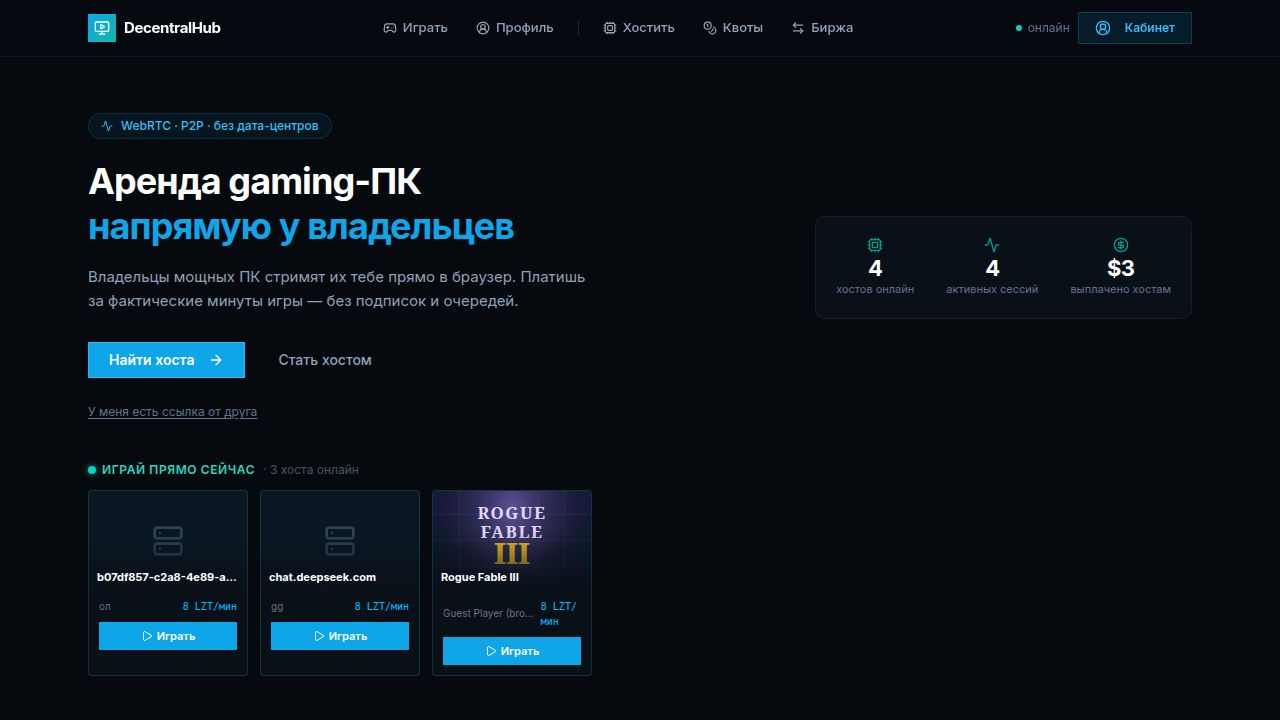
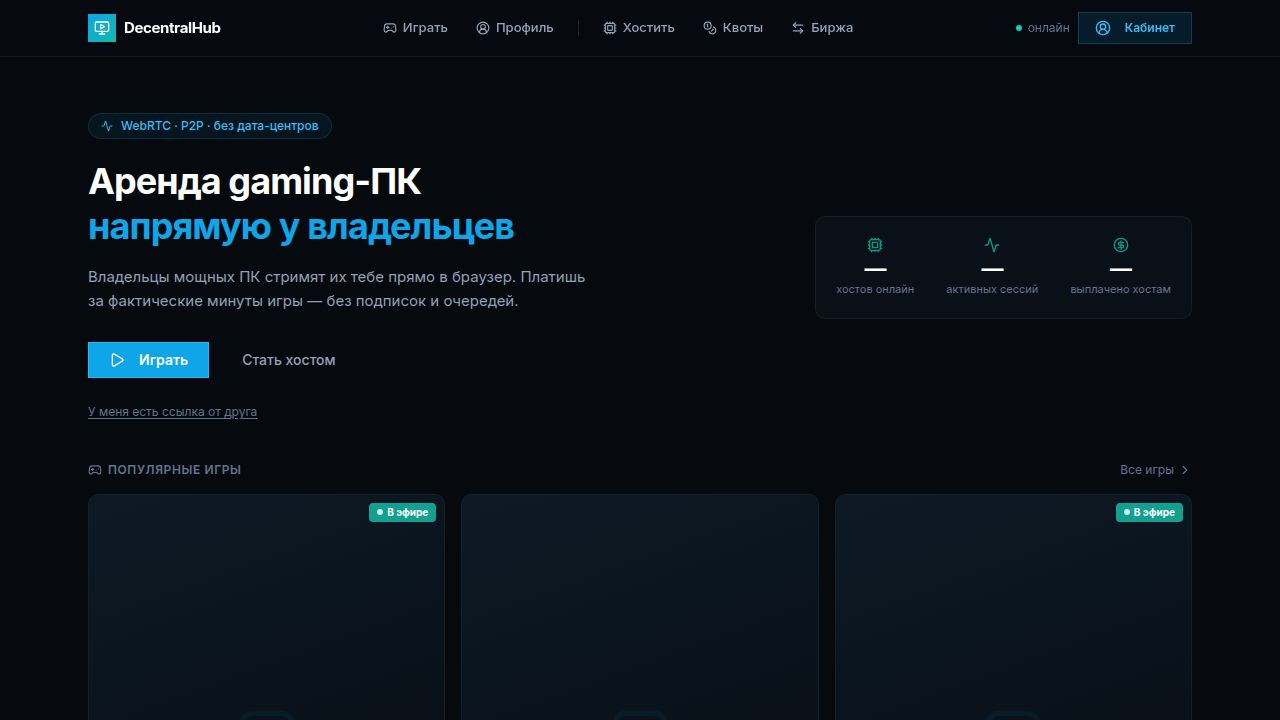
feat: Простой путь игрока — «нажал и играешь» (Task #141)
## Summary
Overhauled the player-facing UX to make the "press and play" flow clear,
all-Russian, and free of dead buttons or technical error messages.

## Changes

### Landing page (landing.tsx)
- Main CTA changed from "Найти хоста" → "Играть" (with play icon), links to /games
- "У меня есть ссылка от друга" collapsible section was already correct — preserved
- "Live" badges on popular game cards translated to "В эфире" (both real and placeholder cards)

### Game catalog (games.tsx)
- GameCard primary button for live games: "Найти хоста" → "Играть"

### Game detail page (game-detail.tsx)
- "Уведомить когда появится хост" button: was a dead onClick={() => {}}
  → now shows a toast: "Готово! Мы покажем эту игру выше в каталоге, когда появится хост."
- Added `import { toast } from "sonner"` for the notification

### Play page (play.tsx)
- IframeTestSession blocked overlay: replaced raw "X-Frame-Options: DENY" error message
  with human-readable Russian: "Эта игра запрещает запуск внутри другого сайта..."
- Connection state badge: replaced `connectionState.toUpperCase()` (which emitted English
  states like "FAILED", "DISCONNECTED") with fully Russian state labels:
  ОТКЛЮЧЕНО / ОШИБКА СВЯЗИ / ЗАКРЫТО / ИНИЦИАЛИЗАЦИЯ
- Long-disconnect modal with "Соединение потеряно" + "Переподключиться" was already present ✓

### Profile page (profile.tsx)
- VdsStatusBadge: "Online" → "Онлайн", "Offline" → "Офлайн", "Провижининг" → "Настройка…"

## Out of scope (per task)
[…]

diff --git a/artifacts/web/src/pages/play.tsx b/artifacts/web/src/pages/play.tsx
@@ -80,17 +80,12 @@ function IframeTestSession({ iframeUrl, gameTitle }: { iframeUrl: string; gameTi
       {blocked && (
         <div className="absolute inset-0 z-10 flex flex-col items-center justify-center gap-4 bg-black/90 text-center px-6">
           <div className="rounded-xl border border-amber-500/30 bg-amber-500/10 p-6 max-w-md space-y-3">
-            <p className="text-amber-300 font-semibold text-base">Сайт запрещает встраивание</p>
+            <p className="text-amber-300 font-semibold text-base">Игра не открывается во встроенном окне</p>
             <p className="text-slate-400 text-sm">
-              <strong className="text-white">{iframeUrl}</strong> возвращает заголовок{" "}
-              <code className="text-amber-300">X-Frame-Options: DENY</code>, поэтому
-              браузер блокирует iframe. Это ограничение на стороне самого сайта —
-              обойти его внутри плеера нельзя.
+              Эта игра запрещает запуск внутри другого сайта. Это ограничение самой игры — обойти его невозможно.
             </p>
             <p className="text-slate-400 text-sm">
-              Для тест-сессии используй URL игры, которая допускает встраивание
-              (например, <code className="text-sky-300">https://shellshock.io</code>,{" "}
-              <code className="text-sky-300">https://krunker.io</code>).
+              Попробуй открыть игру напрямую в новой вкладке или выбери другую игру из каталога.
             </p>
             <a
               href={iframeUrl}
@@ -1462,7 +1457,15 @@ export default function Play() {
                 ? "ПОДКЛЮЧЕНО"
                 : connectionState === "connecting"
                   ? "СОЕДИНЕНИЕ"
-                  : connectionState.toUpperCase()}
+                  : connectionState === "disconnected"
+                    ? "ОТКЛЮЧЕНО"
+                    : connectionState === "failed"
+                      ? "ОШИБКА СВЯЗИ"
+                      : connectionState === "closed"
+                        ? "ЗАКРЫТО"
+                        : connectionState === "new"
+                          ? "ИНИЦИАЛИЗАЦИЯ"
+                          : "ПОДКЛЮЧЕНИЕ"}
           </Badge>
           {iceType && !reconnecting && (
             <Badge

diff --git a/artifacts/web/src/pages/landing.tsx b/artifacts/web/src/pages/landing.tsx
@@ -186,7 +186,7 @@ export default function Landing() {
                 className="h-9 px-5 text-sm font-semibold rounded-md"
                 style={{ background: "#0ea5e9", color: "#fff" }}
               >
-                Найти хоста <ArrowRight className="w-3.5 h-3.5 ml-1.5" />
+                <Play className="w-3.5 h-3.5 mr-1.5" /> Играть
               </Button>
             </Link>
             <Link href="/host">
@@ -375,7 +375,7 @@ export default function Landing() {
                               style={{ background: "rgba(20,184,166,0.85)", color: "#fff" }}
                             >
                               <span className="w-1.5 h-1.5 rounded-full bg-white opacity-80" />
-                              Live
+                              В эфире
                             </span>
                           </div>
                         )}
@@ -413,7 +413,7 @@ export default function Landing() {
                             style={{ background: "rgba(20,184,166,0.85)", color: "#fff" }}
                           >
                             <span className="w-1.5 h-1.5 rounded-full bg-white opacity-80" />
-                            Live
+                            В эфире
                           </span>
                         </div>
                       )}

diff --git a/artifacts/web/src/pages/profile.tsx b/artifacts/web/src/pages/profile.tsx
@@ -418,10 +418,10 @@ type VdsEntry = {
 
 function VdsStatusBadge({ status }: { status: string }) {
   const map: Record<string, { label: string; color: string; bg: string }> = {
-    online: { label: "Online", color: "#22c55e", bg: "rgba(34,197,94,0.1)" },
-    offline: { label: "Offline", color: "#f87171", bg: "rgba(248,113,113,0.1)" },
+    online: { label: "Онлайн", color: "#22c55e", bg: "rgba(34,197,94,0.1)" },
+    offline: { label: "Офлайн", color: "#f87171", bg: "rgba(248,113,113,0.1)" },
     pending: { label: "Ожидание", color: "#fbbf24", bg: "rgba(251,191,36,0.1)" },
-    provisioning: { label: "Провижининг…", color: "#38bdf8", bg: "rgba(56,189,248,0.1)" },
+    provisioning: { label: "Настройка…", color: "#38bdf8", bg: "rgba(56,189,248,0.1)" },
     error: { label: "Ошибка", color: "#f43f5e", bg: "rgba(244,63,94,0.1)" },
   };
   const s = map[status] ?? { label: status, color: "#94a3b8", bg: "rgba(148,163,184,0.1)" };

diff --git a/artifacts/web/src/pages/game-detail.tsx b/artifacts/web/src/pages/game-detail.tsx
@@ -1,4 +1,5 @@
 import { Link, useParams, useSearch, useLocation } from "wouter";
+import { toast } from "sonner";
 import { useCallback, useEffect, useMemo, useRef, useState } from "react";
 import { useQuery } from "@tanstack/react-query";
 import {
@@ -446,8 +447,7 @@ export default function GameDetailPage() {
                       border: "1px solid rgba(255,255,255,0.08)",
                       color: "#94a3b8",
                     }}
-                    onClick={() => {}}
-                    title="Скоро"
+                    onClick={() => toast.success("Готово! Мы покажем эту игру выше в каталоге, когда появится хост.", { duration: 4000 })}
                   >
                     <Bell className="h-3 w-3" />
                     Уведомить когда появится хост

diff --git a/artifacts/web/src/pages/games.tsx b/artifacts/web/src/pages/games.tsx
@@ -584,7 +584,7 @@ function GameCard({ game }: { game: GameEnriched }) {
               }}
               data-testid={`button-open-${game.slug}`}
             >
-              {isLive ? "Найти хоста" : "Подробнее"}
+              {isLive ? "Играть" : "Подробнее"}
               <ArrowRight className="ml-1 h-3 w-3" />
             </Button>
           </Link>
